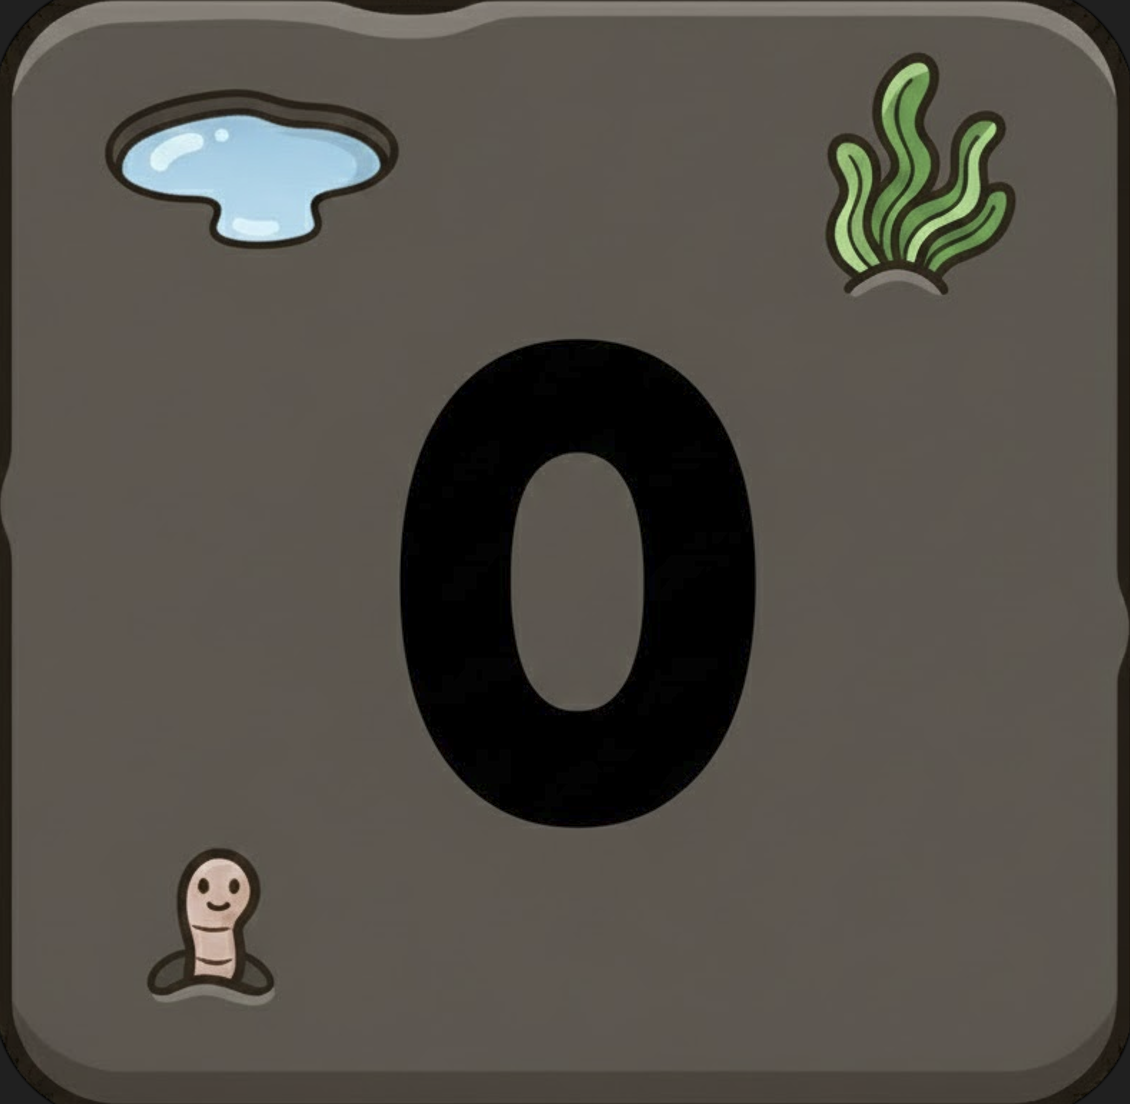
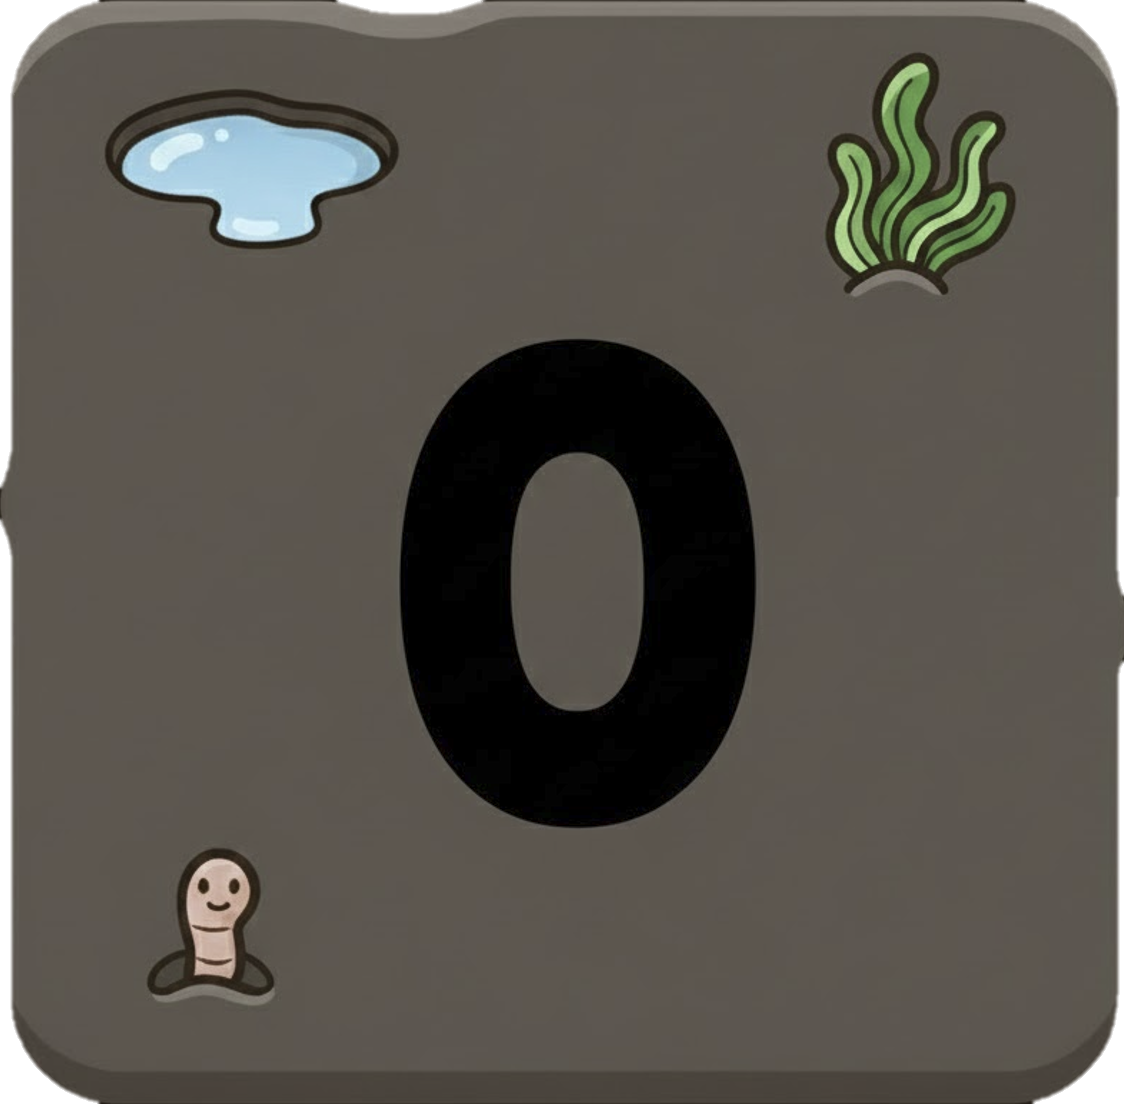
수정7

diff --git a/components.py b/components.py
@@ -27,13 +27,13 @@ class Cell:
 
         # 셀 이미지 로드
         self.cell_images = {
-            'dead': pygame.transform.scale(load_image(IMAGE_PATH.get('CELL_DEAD')), (CELL_WIDTH, CELL_HEIGHT)),
-            0: pygame.transform.scale(load_image(IMAGE_PATH.get('CELL_0')), (CELL_WIDTH, CELL_HEIGHT)),
-            1: pygame.transform.scale(load_image(IMAGE_PATH.get('CELL_1')), (CELL_WIDTH, CELL_HEIGHT)),
-            2: pygame.transform.scale(load_image(IMAGE_PATH.get('CELL_2')), (CELL_WIDTH, CELL_HEIGHT)),
-            3: pygame.transform.scale(load_image(IMAGE_PATH.get('CELL_3')), (CELL_WIDTH, CELL_HEIGHT)),
-            4: pygame.transform.scale(load_image(IMAGE_PATH.get('CELL_4')), (CELL_WIDTH, CELL_HEIGHT)),
-            5: pygame.transform.scale(load_image(IMAGE_PATH.get('CELL_5')), (CELL_WIDTH, CELL_HEIGHT)),
+            'dead': pygame.transform.scale(load_image(IMAGE_PATH.get('CELL_DEAD'),alpha=True), (CELL_WIDTH, CELL_HEIGHT)),
+            0: pygame.transform.scale(load_image(IMAGE_PATH.get('CELL_0'),alpha=True), (CELL_WIDTH, CELL_HEIGHT)),
+            1: pygame.transform.scale(load_image(IMAGE_PATH.get('CELL_1'),alpha=True), (CELL_WIDTH, CELL_HEIGHT)),
+            2: pygame.transform.scale(load_image(IMAGE_PATH.get('CELL_2'),alpha=True), (CELL_WIDTH, CELL_HEIGHT)),
+            3: pygame.transform.scale(load_image(IMAGE_PATH.get('CELL_3'),alpha=True), (CELL_WIDTH, CELL_HEIGHT)),
+            4: pygame.transform.scale(load_image(IMAGE_PATH.get('CELL_4'),alpha=True), (CELL_WIDTH, CELL_HEIGHT)),
+            5: pygame.transform.scale(load_image(IMAGE_PATH.get('CELL_5'),alpha=True), (CELL_WIDTH, CELL_HEIGHT)),
             # ... (더 많은 체력 이미지 추가 가능)
         }
         self.image = self.get_current_image()
@@ -116,10 +116,12 @@ class Player:
 
         self.can_move = True  # '명상' 스킬용
         self.is_dead = False
+        self.width=CELL_WIDTH+20
+        self.height=(((CELL_HEIGHT+20)*5)//7)
 
         # 플레이어 이미지
         self.image = load_image(IMAGE_PATH.get('PLAYER_SPRITE', 'crab_sprite.png'),alpha=1)
-        self.image = pygame.transform.scale(self.image, (CELL_WIDTH, CELL_HEIGHT*2/3))
+        self.image = pygame.transform.scale(self.image, (self.width, self.height))
 
         self.start_ticks = pygame.time.get_ticks()
 
@@ -249,8 +251,7 @@ class Player:
 
     def draw(self, surface):
         """플레이어를 그립니다."""
-        screen_x, screen_y = get_screen_pos(self.grid_x, self.grid_y)
-
+        screen_x, screen_y = get_screen_pos(self.grid_x, self.grid_y)[0]-(self.width//2)+CELL_WIDTH//2,get_screen_pos(self.grid_x, self.grid_y)[1]-(self.height//2)+CELL_HEIGHT//2
         if self.is_invincible:
             # 무적 상태일 때 반짝임 (간단하게 투명도 조절)
             alpha_image = self.image.copy()

diff --git a/config.py b/config.py
@@ -67,7 +67,8 @@ IMAGE_PATH = {
     'CELL_5': 'cell5.png',
     # ... (체력별 이미지)
     'CELL_DEAD': 'dead.png',
-    'PLAYER_SPRITE': 'crab1.png', # 예시, 게 스프라이트
+    'PLAYER_SPRITE': 'crab1.png',
     'MENU_BUTTON': 'buttonimg.png',
-    'GAME_BG': 'backscreen4.png'
+    'GAME_BG': 'backscreen4.png',
+    'CRAB': 'crab.png'
 }
